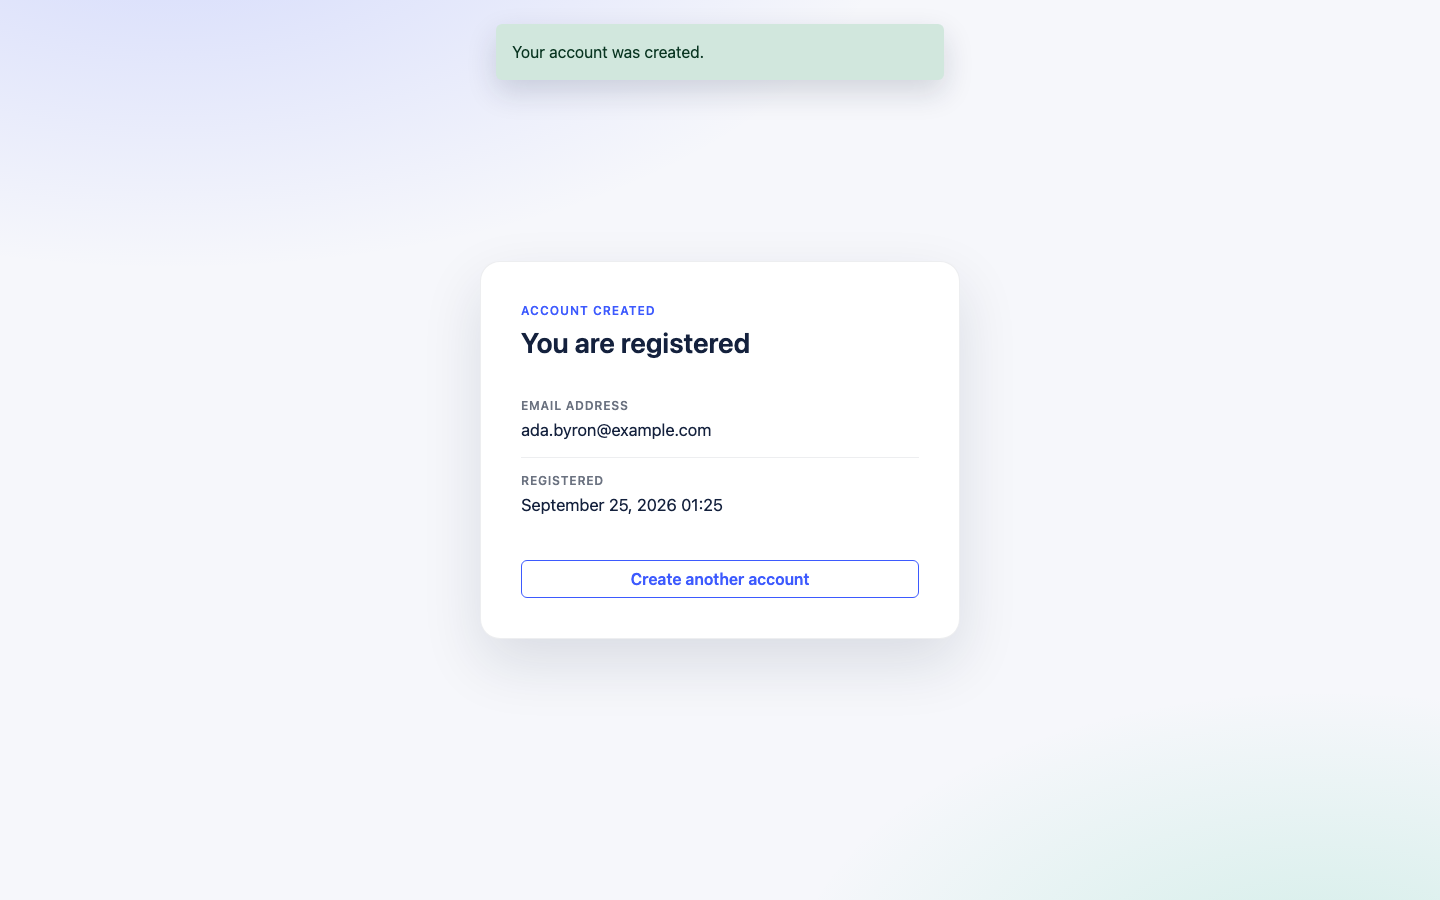
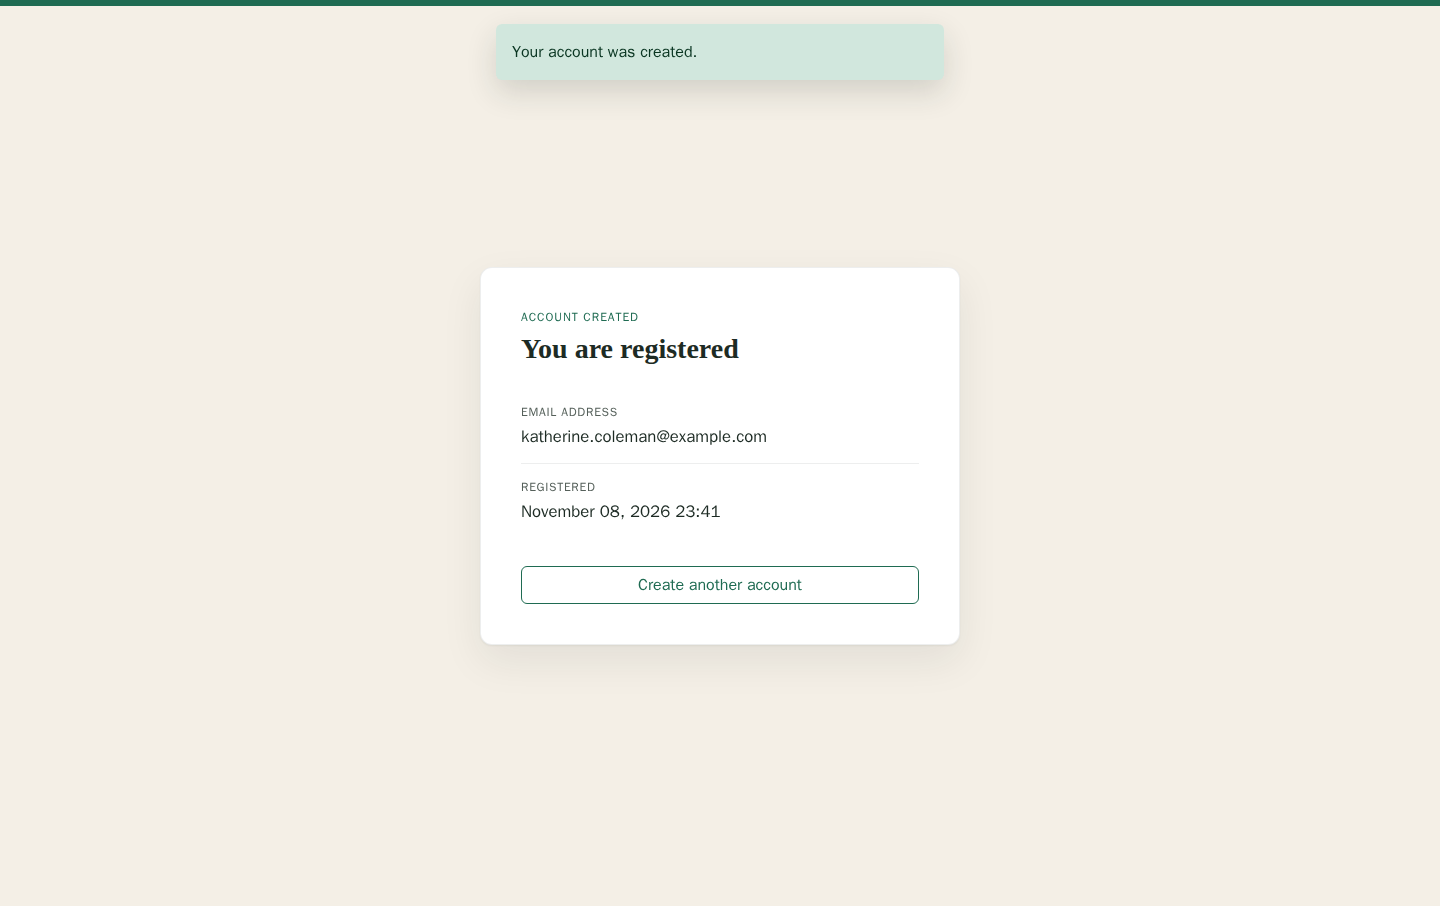
Document the Rails 8.1 stack, Compose path and accessibility work
Recapture the screenshots from the Compose stack in the new palette and
add two at phone width. The README now leads with the tested Docker
Compose path, drops the hiring company's name from the title, records
the 60-example suite with its new system spec, and removes the claims
about an unbuilt image and a CI workflow that is not part of the repo.
Add an MIT LICENSE, as none existed.

diff --git a/README.md b/README.md
@@ -1,4 +1,4 @@
-# Bark signup challenge
+# Signup form with one shared password policy
 
 One screen, one form. You give it an email address and a password, it checks the
 password against a published policy in the browser *and* again in the model, and
@@ -6,9 +6,8 @@ it writes a `User` row holding a bcrypt digest. That is the entire application:
 no session, no login, no account management. It is a take-home exercise and it
 deliberately does one thing.
 
-The repo name will not help you: "Bark" appears nowhere in the code except the
-page title and the default database name, and there is no bark, dog or pet
-domain in here. It is a Rails 7.1 signup form on PostgreSQL.
+Rails 8.1 on Ruby 3.4.12 and PostgreSQL, with Hotwire (Turbo and Stimulus)
+served through importmap and Bootstrap compiled by Sprockets.
 
 ## The form
 
@@ -20,9 +19,26 @@ domain in here. It is a Rails 7.1 signup form on PostgreSQL.
 | --- | --- |
 | ![Confirmation card showing the new account's email address and registration time](docs/screenshots/03-account-created.png) | ![Error 404 card reading "Page not found" with a link back to signup](docs/screenshots/04-not-found.png) |
 
-Captured with Playwright at 1440x900 against the app running locally; the
-"email has already been taken" error in the second shot is against a seeded
-account (`bin/rails db:seed`).
+| Phone, live checklist | Phone, rejected submission |
+| --- | --- |
+| <img src="docs/screenshots/05-mobile-live-validation.png" width="260" alt="The signup form at phone width with every rule met"> | <img src="docs/screenshots/06-mobile-server-errors.png" width="260" alt="The signup form at phone width with the email and password fields outlined in red"> |
+
+Captured with Playwright (1440x900 and 390x844) against the Docker Compose stack
+below. The "email has already been taken" error is against one of the sample
+accounts that `db:prepare` seeds into a fresh database.
+
+## Accessibility
+
+- A rejected submission marks each failing field with Bootstrap's `is-invalid`
+  and `aria-invalid="true"` as well as listing the errors in a `role="alert"`
+  panel. Rails' default `field_with_errors` wrapper is turned off in
+  `config/application.rb` because Bootstrap does not style it.
+- Each item of the live password checklist carries visually hidden "(met)" /
+  "(not met yet)" text that the Stimulus controller keeps current, so the state
+  is not conveyed by colour alone. The email and confirmation hints are polite
+  live regions.
+- Every text colour in `app/assets/stylesheets/_palette.scss` (pine on warm
+  paper) clears 4.5:1, and focus gets a visible outline.
 
 ## One place where the password rules live
 
@@ -99,22 +115,30 @@ not use that index.
 
 ## Running it
 
-Needs Ruby 3.2.8 and a PostgreSQL server.
-
-```bash
-bin/setup          # bundle install, copy .env.example, prepare the database
-bin/rails db:seed  # optional: four sample accounts
-bin/rails server   # http://localhost:3000
-```
-
-With Docker instead — the image is authored but has not been built in this
-environment, so treat this as untested:
+With Docker, nothing else needed:
 
 ```bash
 cp .env.example .env
-echo "SECRET_KEY_BASE=$(bin/rails secret)" >> .env
+echo "SECRET_KEY_BASE=$(openssl rand -hex 64)" >> .env
 docker compose up --build   # http://localhost:8570
 ```
+
+This builds the production image (Ruby 3.4.12 slim, assets precompiled, runs
+as an unprivileged user), starts PostgreSQL 16 and runs `db:prepare`, which on
+a fresh database also loads the four sample accounts from `db/seeds.rb`. The
+container reports healthy once `/up` answers. `docker compose down -v` removes
+the stack and its database volume.
+
+Without Docker you need Ruby 3.4.12 (see `.ruby-version`) and a PostgreSQL
+server:
+
+```bash
+bin/setup          # bundle install, copy .env.example, create and seed the database
+bin/rails server   # http://localhost:3000
+```
+
+`bin/rails db:seed` is idempotent and re-adds the four sample accounts to an
+existing database.
 
 ## Environment variables
 
@@ -143,18 +167,18 @@ it.
 
 ```
 $ bundle exec rspec
-54 examples, 0 failures
+60 examples, 0 failures
 
 $ bundle exec rubocop
-34 files inspected, no offenses detected
+35 files inspected, no offenses detected
 ```
 
 A PostgreSQL server has to be reachable — point the suite at one with
 `DATABASE_HOST` / `DATABASE_PORT` or `DATABASE_URL`. bcrypt runs at its minimum
-cost factor in the test environment, so the full run takes about a second and a
-half.
+cost factor in the test environment, so the full run takes a couple of seconds.
+Examples run in random order; rerun a failing order with `--seed`.
 
-The four spec files are layered on purpose:
+The spec files are layered on purpose:
 
 - `spec/models/password_policy_spec.rb` — the rules themselves, plus the
   JavaScript-portability guard described above.
@@ -162,9 +186,13 @@ The four spec files are layered on purpose:
   unique index is a real backstop rather than a comment.
 - `spec/requests/users_spec.rb` — real templates rendered. This is the layer
   that pins the status codes: 422 on a rejected form so Turbo replaces the page,
-  400 when the `user` params key is missing, 422 on a lost uniqueness race, and
-  404 for an unknown id.
+  400 when the `user` params key is missing or is not a hash, 422 on a lost
+  uniqueness race, and 404 for an unknown id.
 - `spec/controllers/users_controller_spec.rb` — assignment and template choice.
+- `spec/system/signup_spec.rb` — the form as rendered, filled in and submitted
+  through Capybara's `rack_test` driver: the happy path, rejected fields and
+  their `aria-invalid` marks, a duplicate address in a different case, and the
+  rule list.
 
 Controller specs do not render views, which is exactly how a re-rendered form
 that raises can hide behind a green suite; that is why the request specs exist.
@@ -186,7 +214,7 @@ controller's business and a shared concern should not need to know which views
 exist where.
 
 **Nothing is fetched from a third party.** No CDN script, style, font or image;
-Bootstrap is compiled from the gem and the background is a CSS gradient, so the
+Bootstrap is compiled from the gem and headings use a local serif stack, so the
 page renders identically offline. That lets the content security policy be
 `self` throughout, with a per-request nonce for importmap's inline
 `<script type="importmap">` and Turbo's injected progress bar.
@@ -210,8 +238,13 @@ or a `created_at` index today would be decoration.
 - `config/credentials.yml.enc` is committed without its key, so it cannot be
   decrypted from a clone. Production reads `SECRET_KEY_BASE` from the
   environment instead.
-- No end-to-end browser test. `capybara` and `selenium-webdriver` are in the
-  Gemfile but there is no `spec/system`; the flows in the screenshots were driven
-  through Chromium out of band. A `:js` system spec is the obvious next addition.
-- `.github/workflows/ci.yml` (postgres service, rubocop, then rspec) has not run
-  here, and the Docker image has not been built here either.
+- The system spec runs without JavaScript, so the live checklist itself is only
+  exercised by hand and by the screenshot run. A JavaScript-driven system spec
+  would need a headless browser in the test environment.
+- Styles go through `sassc-rails`, whose libsass engine is no longer developed.
+  Bootstrap 5.3 still compiles cleanly with it; moving to Dart Sass is the next
+  step if Bootstrap stops supporting libsass.
+
+## License
+
+MIT, see [LICENSE](LICENSE).
